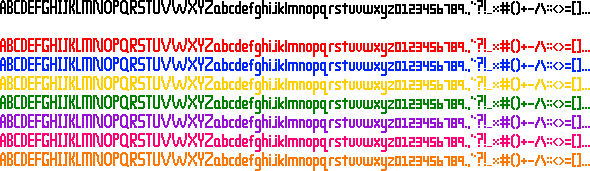
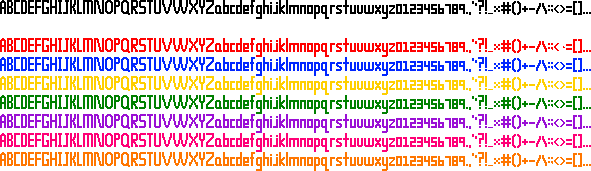
Improved bitmap font

Changed region(s): [[0.0915, 0.2047, 0.9153, 1.0], [0.0915, 0.0, 0.8847, 0.0877]]

diff --git a/renderers/components/bitmap-text.js b/renderers/components/bitmap-text.js
@@ -1,4 +1,8 @@
 const BitmapText = new (function(){
+
+    const letterSpacingFactor = 1;
+    const wordSpacingFactor = 6;
+
     let bitmap = null;
     let sourceHeight = null;
 
@@ -18,28 +22,28 @@ const BitmapText = new (function(){
         bitmap = imageDictionary["elven-font"];
         sourceHeight = bitmap.height / Object.keys(colorToRow).length;
     }
-    const textWrapTest = function(words,maxWidth,horizontalSpace,scale) {
+    const textWrapTest = function(words,maxWidth,scale) {
+        const horizontalSpace = scale * wordSpacingFactor;
+        const textSpacing = scale * letterSpacingFactor;
         let xOffset = 0;
-        const textSpacing = scale * 3.5;
         let i = 0;
         let isNewLine = true;
         const wrapRequiredTable = new Array(words.length);
-        while(i < words.length) {
+        while(i<words.length) {
             const word = words[i];
             if(textControlCodes[word]) {
                 if(word === "\n") {
-                    xOffset = 0;
                     wrapRequiredTable[i] = true;
+                    xOffset = 0;
                     isNewLine = true;
                 }
             } else {
-                if(!isNewLine) {
-                    xOffset += textSpacing;
-                } else {
+                if(isNewLine) {
                     isNewLine = false;
                 }
                 let wordTestWidth = 0;
                 let i2 = 0;
+    
                 while(i2 < word.length) {
                     const character = BitmapManifest[word[i2]];
                     wordTestWidth += character.width;
@@ -49,33 +53,24 @@ const BitmapText = new (function(){
                     i2++;
                 }
                 wordTestWidth *= scale;
-                if(xOffset + wordTestWidth >= maxWidth) {
-                    xOffset = 0;
+                wordTestWidth += word.length * textSpacing;
+
+                xOffset += wordTestWidth;
+    
+                if(xOffset >= maxWidth) {
                     wrapRequiredTable[i] = true;
+                    xOffset = 0;
                 }
-                i2 = 0;
-                while(i2 < word.length) {
-                    const character = BitmapManifest[word[i2]];
-                    const drawWidth = character.width * scale;
-                    xOffset += drawWidth;
-                    if(character.extraSpace) {
-                        xOffset += character.extraSpace * scale;
-                    }
-                    if(i2 < word.length-1) {
-                        xOffset += horizontalSpace;
-                    }
-                    i2++;
+                if(xOffset) {
+                    xOffset += horizontalSpace;
                 }
-            }
-            if(xOffset) {
-                xOffset += horizontalSpace;
             }
             i++;
         }
         return wrapRequiredTable;
     }
-    const drawTextWrappingLookAhead = function(processedText,x,y,maxWidth,horizontalSpace,verticalSpace,scale,color) {
-        const wrapRequiredTable = textWrapTest(processedText.full,maxWidth,horizontalSpace,scale);
+    const drawTextWrappingLookAhead = function(processedText,x,y,maxWidth,scale,color) {
+        const wrapRequiredTable = textWrapTest(processedText.full,maxWidth,scale);
         const wordsAdjusted = [processedText.sub[0]];
         for(let i = 1;i<processedText.sub.length;i++) {
             const newLine = wrapRequiredTable[i];
@@ -89,18 +84,18 @@ const BitmapText = new (function(){
                 wordsAdjusted.push(subWord);
             }
         }
-        drawTextWrapping(wordsAdjusted,x,y,maxWidth,horizontalSpace,verticalSpace,scale,color);
+        drawTextWrapping(wordsAdjusted,x,y,maxWidth,scale,color);
     }
-    function drawTextWrapping(words,x,y,maxWidth,horizontalSpace,verticalSpace,scale,color) {
+    function drawTextWrapping(words,x,y,maxWidth,scale,color) {
+        const horizontalSpace = scale * wordSpacingFactor;
+        const textSpacing = scale * letterSpacingFactor;
         let xOffset = 0;
         let yOffset = 0;
 
         let baseColorRow = colorToRow[color];
         let colorRow = baseColorRow;
 
-        const drawHeight = sourceHeight * scale;
-        const textSpacing = scale * 3.5;
-
+        const drawHeight = (sourceHeight+1) * scale;
         let i = 0;
         context.fillStyle = color;
         let drawingCustomColor = false;
@@ -110,7 +105,7 @@ const BitmapText = new (function(){
             if(textControlCodes[word]) {
                 if(word === "\n") {
                     xOffset = 0;
-                    yOffset += verticalSpace + drawHeight;
+                    yOffset += drawHeight;
                     isNewLine = true;
                 } else {
                     if(drawingCustomColor) {
@@ -122,9 +117,7 @@ const BitmapText = new (function(){
                     }
                 }
             } else {
-                if(!isNewLine) {
-                    xOffset += textSpacing;
-                } else {
+                if(isNewLine) {
                     isNewLine = false;
                 }
                 let wordTestWidth = 0;
@@ -139,10 +132,11 @@ const BitmapText = new (function(){
                     i2++;
                 }
                 wordTestWidth *= scale;
+                wordTestWidth += word.length * textSpacing;
     
                 if(xOffset + wordTestWidth >= maxWidth) {
                     xOffset = 0;
-                    yOffset += verticalSpace + drawHeight;
+                    yOffset += drawHeight;
                 }
         
                 i2 = 0;
@@ -152,29 +146,30 @@ const BitmapText = new (function(){
 
                     context.drawImage(
                         bitmap,character.x,colorRow*sourceHeight,character.width,sourceHeight,
-                        x+xOffset,y+yOffset,character.width*scale,drawHeight
+                        x+xOffset,y+yOffset,drawWidth,drawHeight
                     );
-                    
+
                     xOffset += drawWidth;
+
                     if(character.extraSpace) {
                         xOffset += character.extraSpace * scale;
                     }
                     if(i2 < word.length-1) {
-                        xOffset += horizontalSpace;
+                        xOffset += textSpacing;
                     }
                     i2++;
                 }
-            }
-            if(xOffset) {
-                xOffset += horizontalSpace;
+                if(xOffset) {
+                    xOffset += horizontalSpace;
+                }
             }
             i++;
         }
     }
-    this.drawTextWrappingLookAheadWhite = (processedText,x,y,maxWidth,horizontalSpace,verticalSpace,scale) => {
-        drawTextWrappingLookAhead(processedText,x,y,maxWidth,horizontalSpace,verticalSpace,scale,"white");
+    this.drawTextWrappingLookAheadWhite = (processedText,x,y,maxWidth,scale) => {
+        drawTextWrappingLookAhead(processedText,x,y,maxWidth,scale,"white");
     }
-    this.drawTextWrappingLookAheadBlack = (processedText,x,y,maxWidth,horizontalSpace,verticalSpace,scale) => {
-        drawTextWrappingLookAhead(processedText,x,y,maxWidth,horizontalSpace,verticalSpace,scale,"black");
+    this.drawTextWrappingLookAheadBlack = (processedText,x,y,maxWidth,scale) => {
+        drawTextWrappingLookAhead(processedText,x,y,maxWidth,scale,"black");
     }
 })();

diff --git a/bitmap-manifest.js b/bitmap-manifest.js
@@ -37,7 +37,7 @@ const BitmapList = [
     },
     {
         name: "J",
-        width: 5
+        width: 6
     },
     {
         name: "K",
@@ -256,8 +256,7 @@ const BitmapList = [
     },
     {
         name: ",",
-        width: 2,
-        extraSpace: 1
+        width: 2
     },
     {
         name: "\"",
@@ -313,13 +312,11 @@ const BitmapList = [
     },
     {
         name: ":",
-        width: 2,
-        extraSpace: 2
+        width: 2
     },
     {
         name: ";",
-        width: 2,
-        extraSpace: 2
+        width: 2
     },
     {
         //A beachigator was here :V
